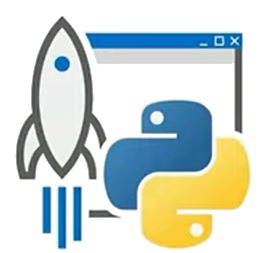
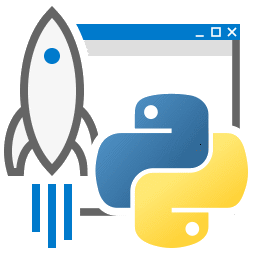
Update docs, styles, floating image in reStructured Text

diff --git a/docs/css/styles.css b/docs/css/styles.css
@@ -18,7 +18,6 @@ body {
 }
 
 .pylauncher-intro img {
-    float: left;
-    width: 153px;
-    height: 167px;
+    width: 166px;
+    height: 166px;
 }

diff --git a/docs/launcher.rst b/docs/launcher.rst
@@ -6,6 +6,7 @@ Python Launcher for Windows
 
   .. image:: py-launcher.png
       :alt: Logo Python launcher for Windows
+      :align: left
 
   The Python launcher for Windows is a utility which aids in the location and
   execution of different Python versions.  It allows scripts (or the
